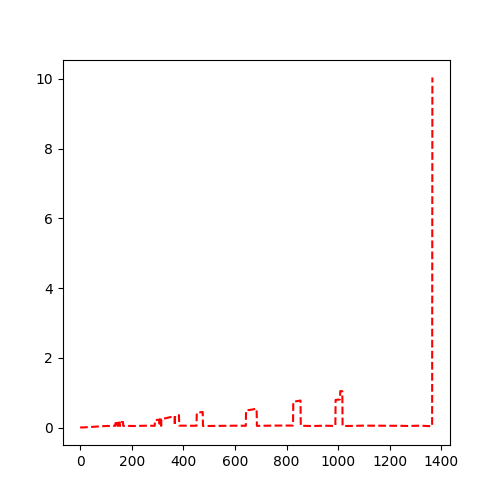
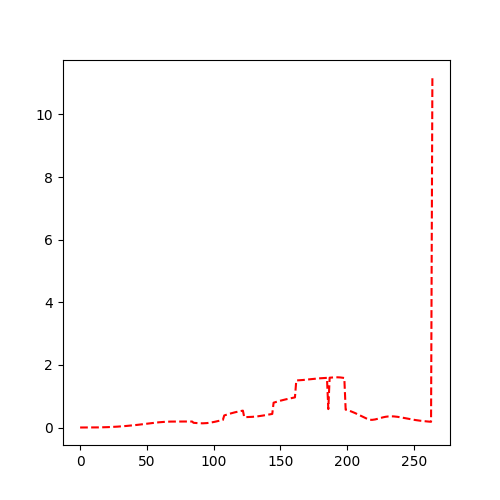
commit sync modified termination condition

diff --git a/simulations/maze_task.py b/simulations/maze_task.py
@@ -370,22 +370,22 @@ class CustomGoalReward4Rooms(GoalReward4Rooms):
             MazeVisualGoal(np.array([
                 np.random.uniform(4.0, 6.0) * self.scale,
                 np.random.uniform(-6.0, -4.0) * self.scale
-            ]), self.scales[0], self.colors[0]),
+            ]), self.scales[0], self.colors[0], 3),
             MazeVisualGoal(np.array([
                 np.random.uniform(0.0, 2.0) * self.scale,
                 np.random.uniform(-6.0, -4.0) * self.scale
-            ]), self.scales[1], self.colors[1]),
+            ]), self.scales[1], self.colors[1], 3),
             MazeVisualGoal(np.array([
                 np.random.uniform(4.0, 6.0) * self.scale,
                 np.random.uniform(-2.0, 0.0) * self.scale
-            ]), self.scales[2], self.colors[2]),
+            ]), self.scales[2], self.colors[2], 3),
         ]
 
     def reward(self, obs: np.ndarray, pos: np.ndarray) -> float:
         reward = 0.0
         goal = self.goals[self.goal_index]
         if goal.inframe(obs):
-            if np.linalg.norm(pos - goal.pos) <= goal.threshold * 5:
+            if np.linalg.norm(pos - goal.pos) <= goal.threshold * 4:
                 return goal.reward_scale
             else:
                 return goal.reward_scale * (
@@ -394,7 +394,7 @@ class CustomGoalReward4Rooms(GoalReward4Rooms):
         return reward
 
     def termination(self, obs: np.ndarray, pos: np.ndarray) -> bool:
-        if self.goals[self.goal_index].neighbor(pos) and self.goals[self.goal_index].inframe(obs)
+        if self.goals[self.goal_index].neighbor(pos) and self.goals[self.goal_index].inframe(obs):
             return True
         return False
 

diff --git a/test_env.py b/test_env.py
@@ -2,7 +2,7 @@ from simulations.maze_env import MazeEnv
 from simulations.collision_env import CollisionEnv
 from simulations.point import PointEnv
 from simulations.maze_task import CustomGoalReward4Rooms, GoalRewardNoObstacle
-env = MazeEnv(PointEnv, GoalRewardNoObstacle)
+env = MazeEnv(PointEnv, CustomGoalReward4Rooms)
 import numpy as np
 import matplotlib.pyplot as plt
 import cv2

diff --git a/simulations/point.py b/simulations/point.py
@@ -54,7 +54,7 @@ class PointEnv(AgentModel):
             self.sim.step()
         next_obs = self._get_obs()
         pos = self.get_xy().copy()
-        reward = np.linalg.norm(pos - prev_pos)
+        reward = np.sum(np.square(self.data.qvel[:2] / self.VELOCITY_LIMITS * 1.2)) / 2
         return next_obs, reward, False, {}
 
     def _get_obs(self):
